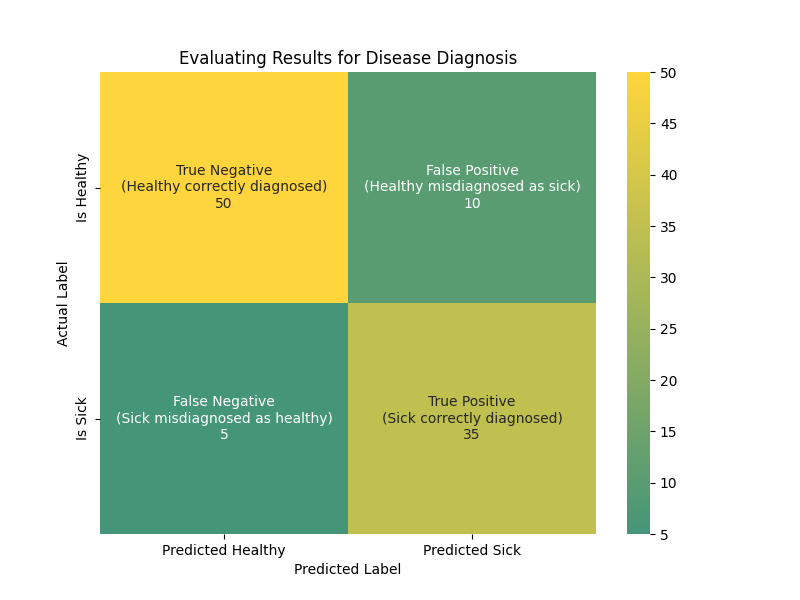
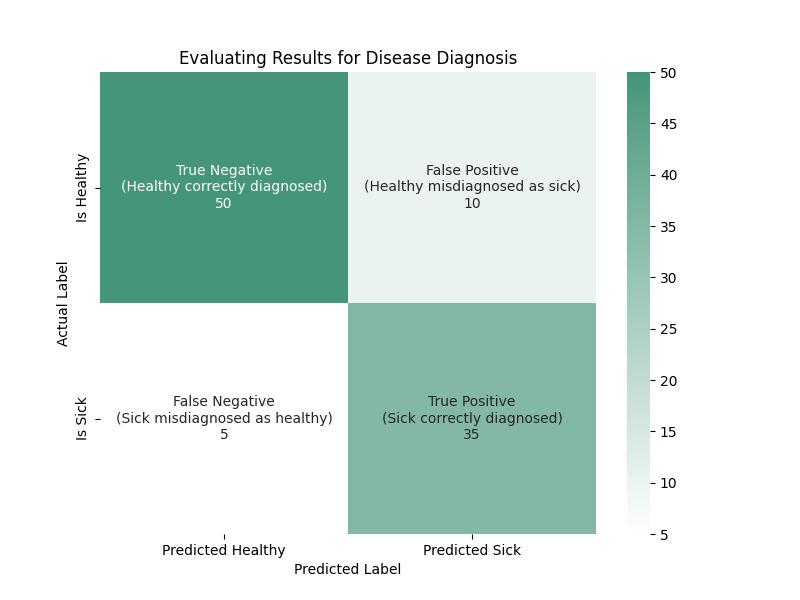
reusable white to green color map in the config*

diff --git a/CCPlots/config.py b/CCPlots/config.py
@@ -27,6 +27,7 @@ COLOR_PALETTE = {
         "golden_yellow": "#D9B23F"
     },
     "neutral_colors": {
+        "white": "#FFFFFF",
         "light_gray": "#EFEFEF",
         "medium_gray": "#8C8C8C",
         "charcoal": "#333333"
@@ -39,7 +40,7 @@ COLOR_PALETTE = {
     }
 }
 
-# Define a list of colors for a colour map
-CUSTOM_CMAP = mcolors.LinearSegmentedColormap.from_list("custom_cmap",
-                                                        [COLOR_PALETTE['base_colors']['medium_green'], COLOR_PALETTE['base_colors']['bright_yellow']],
+# Define a list of colors for a colour map (white to green)
+CUSTOM_CMAP = mcolors.LinearSegmentedColormap.from_list(name="custom_cmap",
+                                                        colors=[COLOR_PALETTE['neutral_colors']['white'], COLOR_PALETTE['base_colors']['medium_green']],
                                                         N=256)
